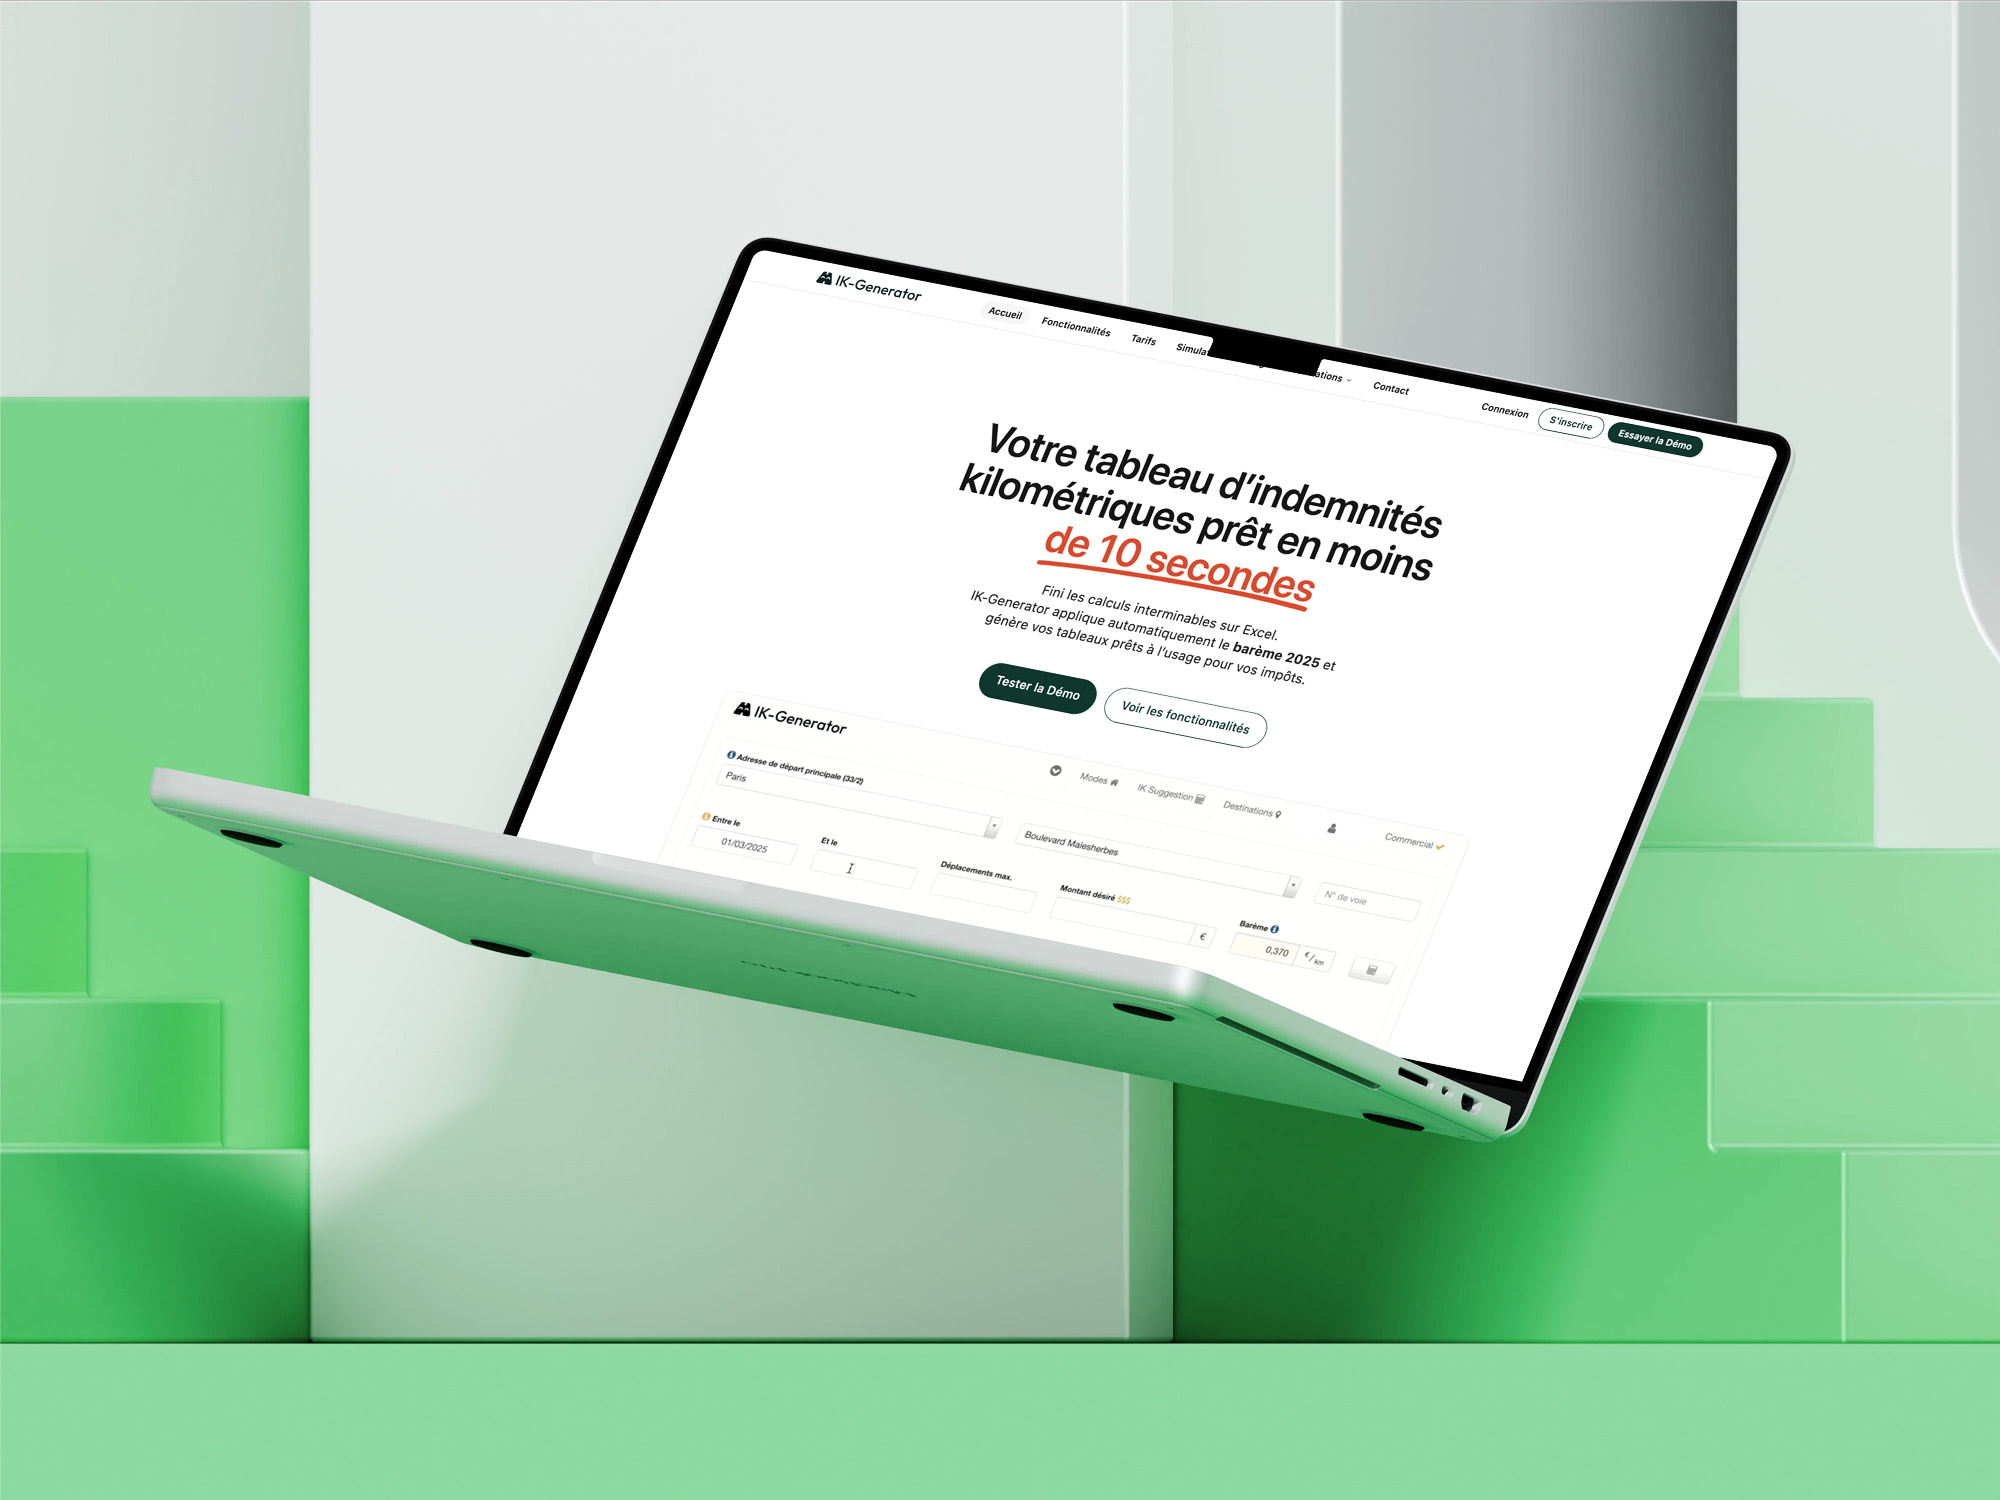
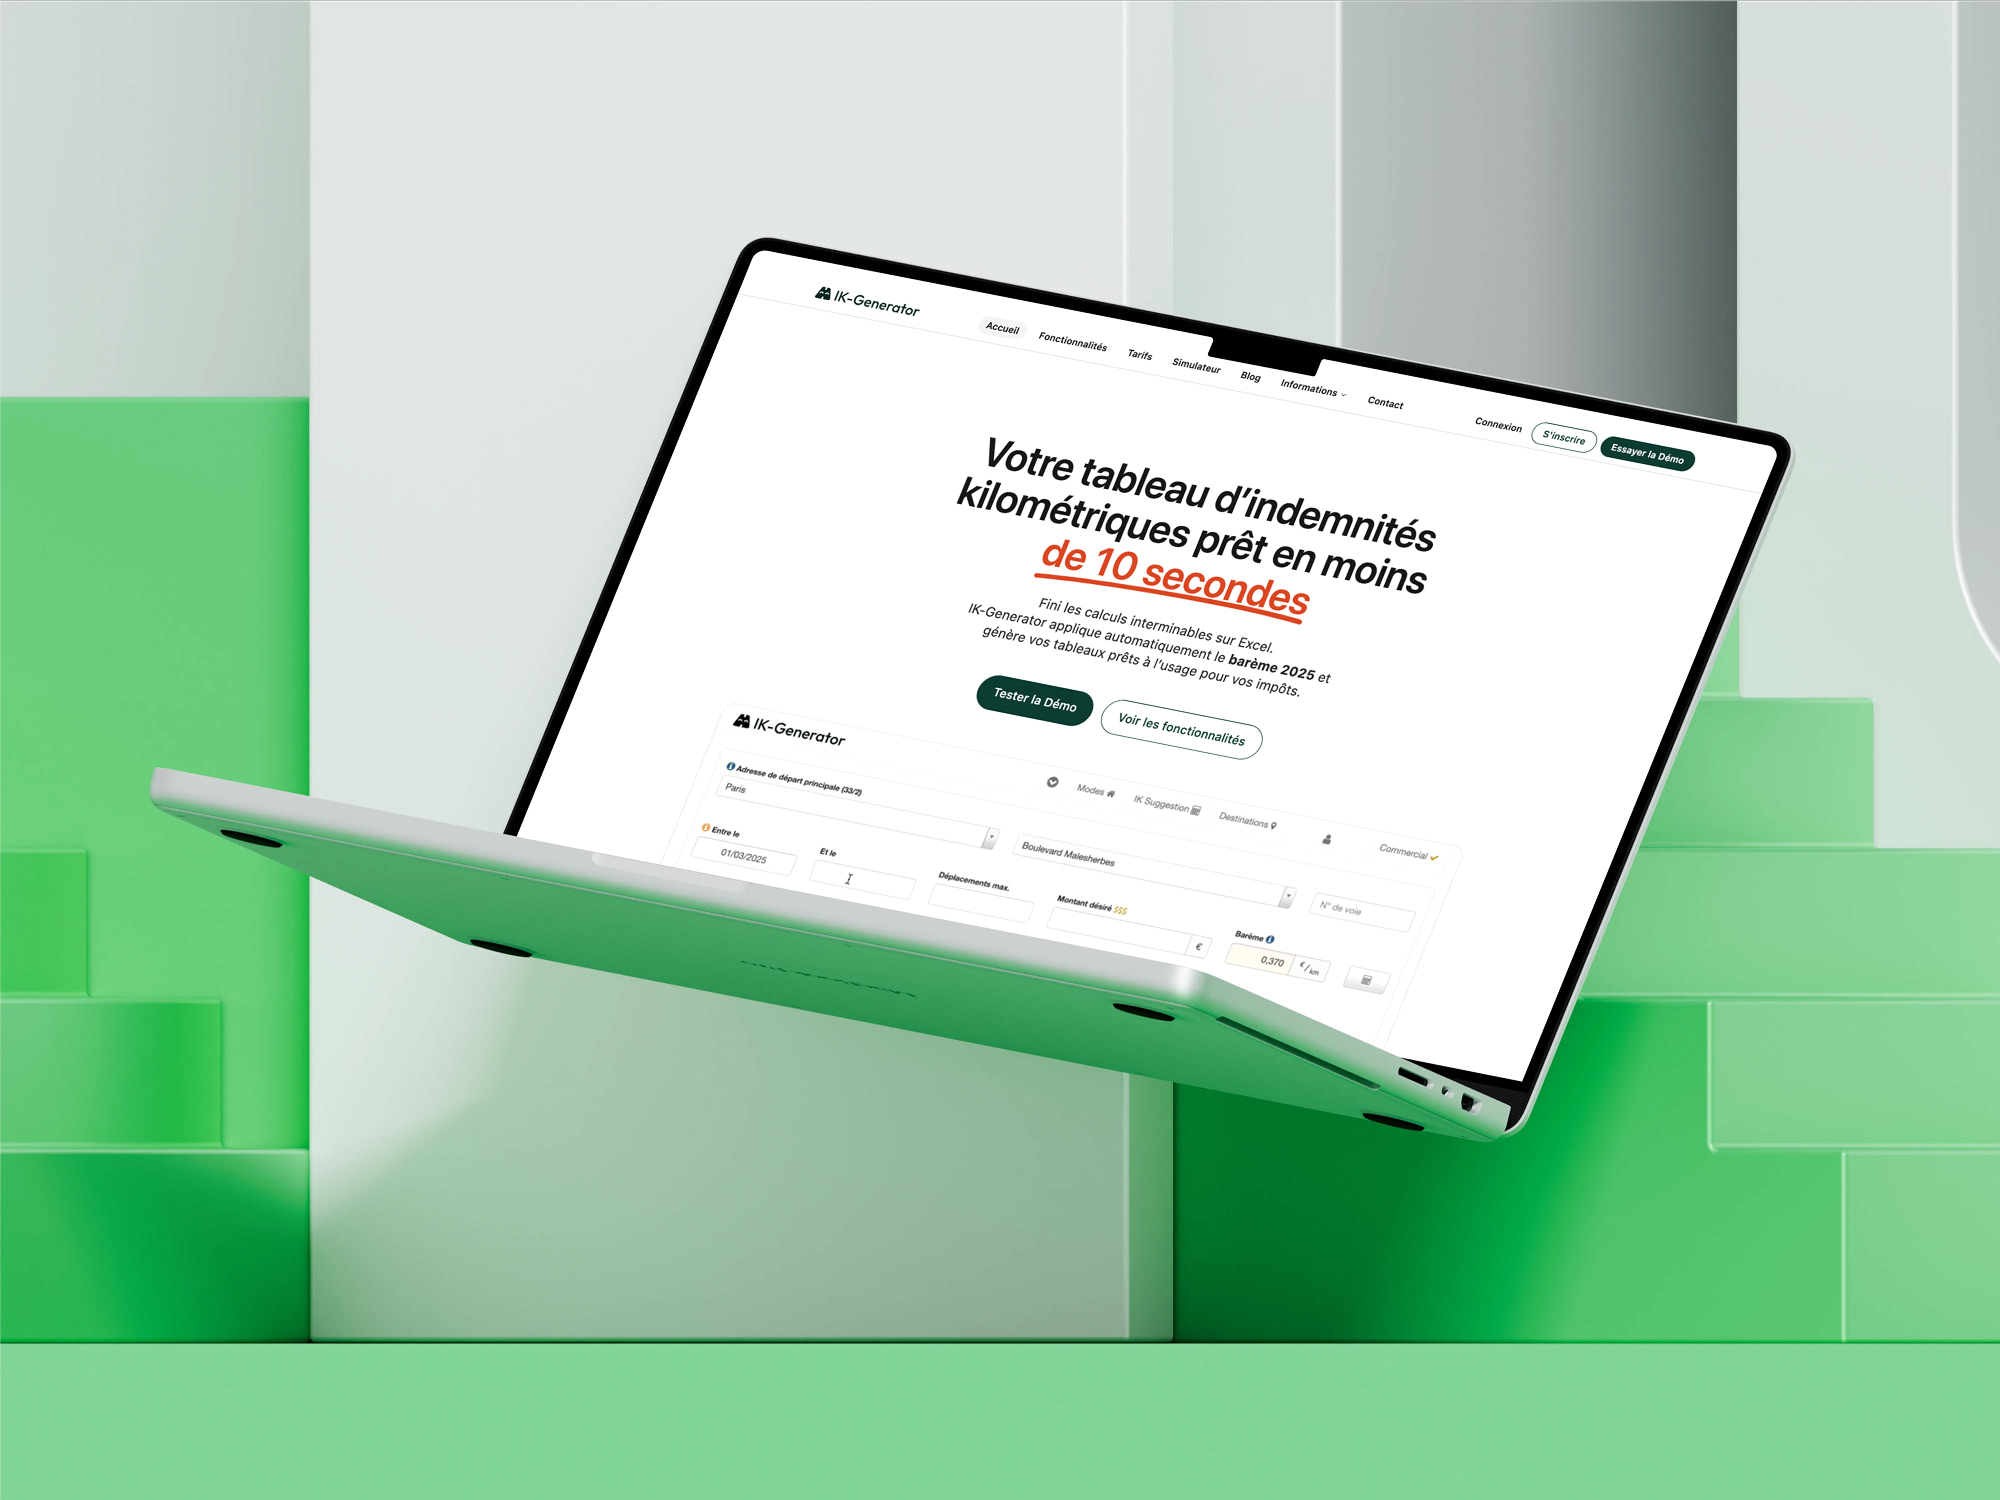
404 + other

diff --git a/src/styles/portfolio.css b/src/styles/portfolio.css
@@ -1,3 +1,7 @@
+html {
+	scroll-behavior: smooth;
+}
+
 body {
 	margin: 0;
 	font-family: system-ui, -apple-system, BlinkMacSystemFont, 'Segoe UI',
@@ -46,6 +50,12 @@ a:hover {
 	letter-spacing: 0.08em;
 	font-size: 0.9rem;
 	text-transform: uppercase;
+}
+
+.logo img {
+	height: 30px;
+	width: auto;
+	display: block;
 }
 
 .nav {
@@ -326,6 +336,10 @@ a:hover {
 	color: #000000;
 }
 
+#contact.section {
+	padding-bottom: 7rem;
+}
+
 .section-alt {
 	background: #f9fafb;
 	border-top: 1px solid rgba(209, 213, 219, 0.8);
@@ -343,6 +357,37 @@ a:hover {
 	color: #000000;
 	font-size: 0.95rem;
 	line-height: 1.7;
+}
+
+.about-studies {
+	margin-top: 2rem;
+}
+
+.about-subtitle {
+	font-size: 0.8rem;
+	text-transform: uppercase;
+	letter-spacing: 0.08em;
+	color: #6b7280;
+	margin: 0 0 1rem;
+}
+
+.about-studies-list {
+	list-style: none;
+	padding: 0;
+	margin: 0;
+	display: grid;
+	gap: 1.25rem;
+}
+
+.about-studies-item-title {
+	font-weight: 600;
+	font-size: 1rem;
+	margin-bottom: 0.1rem;
+}
+
+.about-studies-item-detail {
+	font-size: 0.9rem;
+	color: #6b7280;
 }
 
 .contact-list {
@@ -372,6 +417,23 @@ a:hover {
 	align-items: center;
 	justify-content: center;
 	padding: 1.5rem 0;
+}
+
+.page-404 {
+	min-height: 100vh;
+	display: flex;
+	flex-direction: column;
+}
+
+.page-404-main {
+	flex: 1;
+	display: flex;
+	align-items: center;
+}
+
+.page-404-content {
+	padding-top: 2.5rem;
+	padding-bottom: 2.5rem;
 }
 
 @media (min-width: 1024px) {
@@ -439,4 +501,3 @@ a:hover {
 		max-width: 100%;
 	}
 }
-
